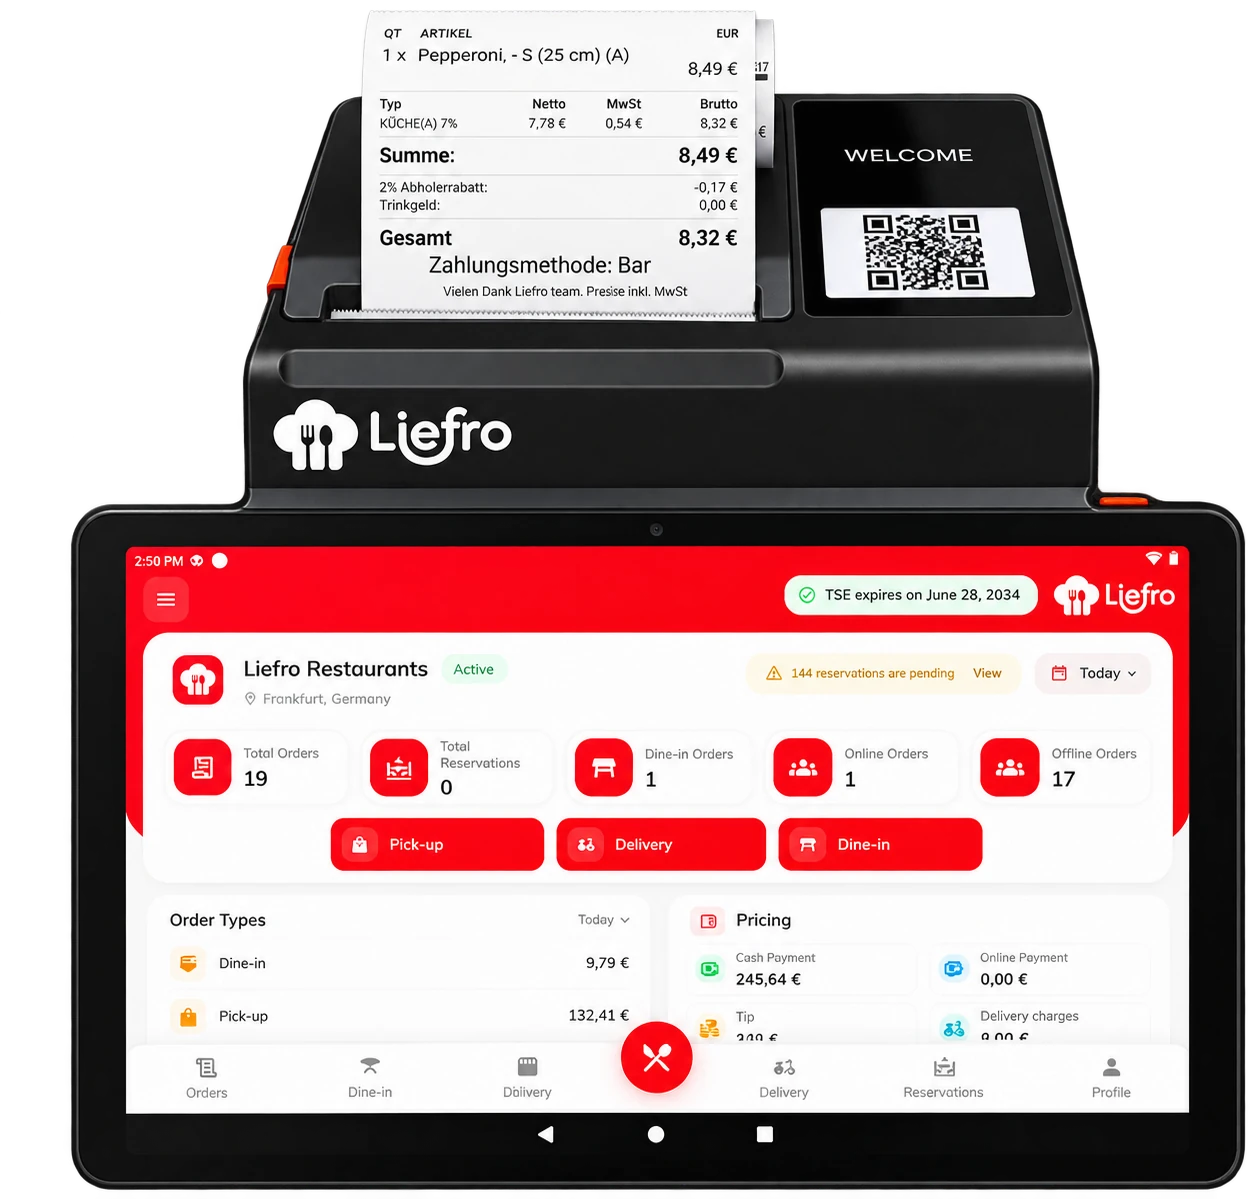
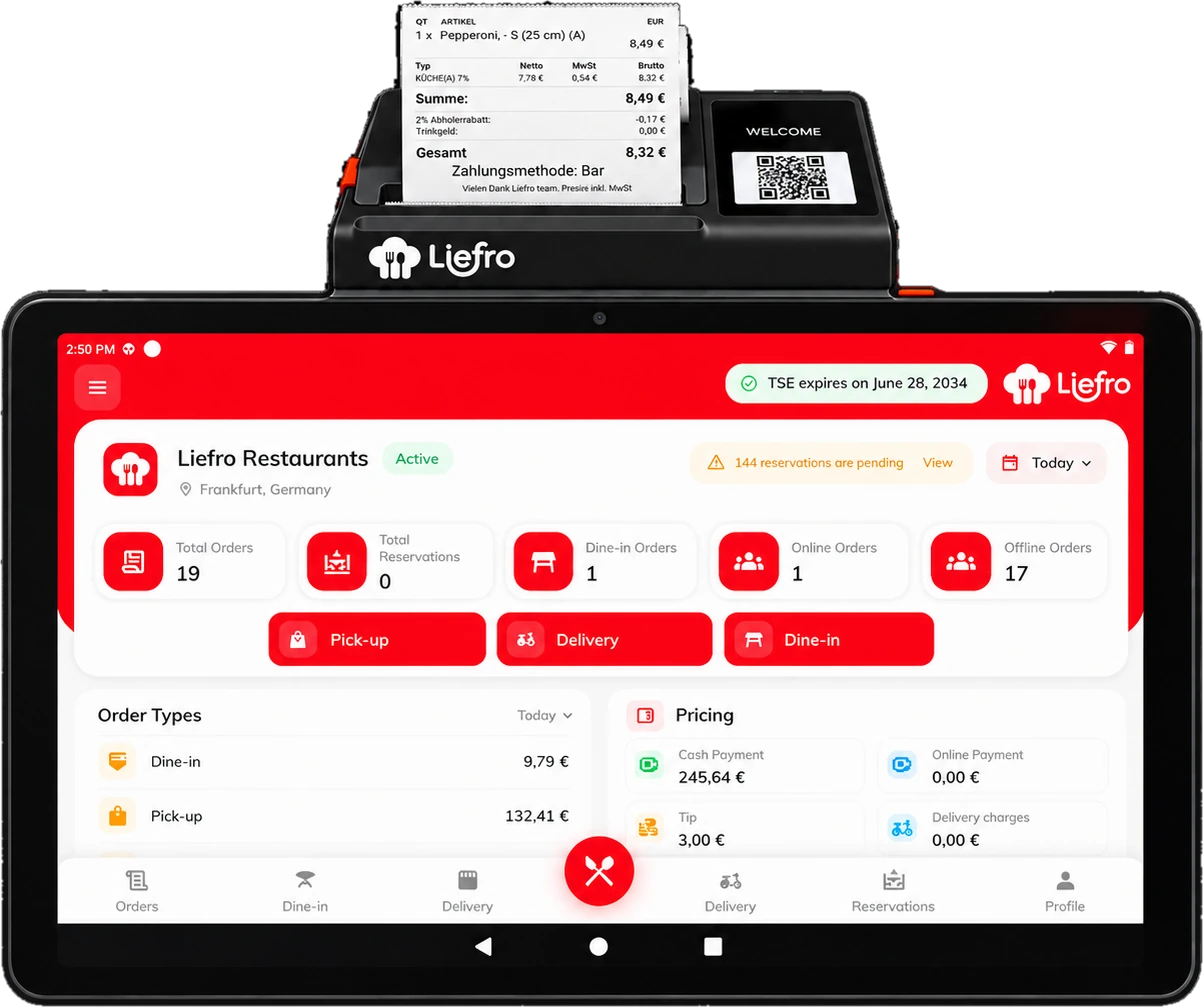
Use new POS station image and widen it in the hero
New transparent cut-out with a thinner bezel; screen-slider box and
srcset sizes updated to match, and the tablet column grows to
min(52vw, 690px).

diff --git a/frontend/src/components/HeroDevices.jsx b/frontend/src/components/HeroDevices.jsx
@@ -16,12 +16,12 @@ const screenSlides = [
   srcSet: widths.map((w) => `/hero/${n}-${w}.webp ${w}w`).join(", "),
 }));
 
-// Rendered width of the tablet screen: the tablet is min(48vw, 600px) wide on
-// desktop and the screen is 85.2% of it.
-const screenSizes = "(min-width: 1280px) 512px, (min-width: 1024px) 41vw, 85vw";
+// Rendered width of the tablet screen: the tablet is min(52vw, 690px) wide on
+// desktop and the screen is 90.2% of it.
+const screenSizes = "(min-width: 1280px) 622px, (min-width: 1024px) 47vw, 90vw";
 
 // Screen area inside device-tablet.webp, in % of the image.
-const tabletScreen = { left: "10%", top: "45.5%", width: "85.2%", height: "47.3%" };
+const tabletScreen = { left: "4.82%", top: "33.07%", width: "90.19%", height: "58.59%" };
 
 // The big POS station. Kept perfectly still: a continuously moving layer gets
 // resampled at sub-pixel offsets in Chrome, which smears the slides' fine text.
@@ -35,8 +35,8 @@ export function HeroTablet({ alt }) {
     >
       <img
         src="/hero/device-tablet.webp"
-        width={1250}
-        height={1199}
+        width={1203}
+        height={1007}
         alt={alt}
         fetchPriority="high"
         className="block w-full h-auto drop-shadow-[0_40px_45px_rgba(60,0,0,0.45)]"

diff --git a/frontend/src/pages/TaxCompliance.jsx b/frontend/src/pages/TaxCompliance.jsx
@@ -90,7 +90,7 @@ export default function TaxCompliance() {
               transition={{ duration: 1, delay: 0.2, ease }}
               className="relative"
             >
-              <img src="/hero/device-tablet.webp" alt="" width={1250} height={1199} className="w-full max-w-[560px] mx-auto h-auto drop-shadow-[0_40px_50px_rgba(60,0,0,0.45)]" />
+              <img src="/hero/device-tablet.webp" alt="" width={1203} height={1007} className="w-full max-w-[560px] mx-auto h-auto drop-shadow-[0_40px_50px_rgba(60,0,0,0.45)]" />
               <div className="absolute bottom-[12%] left-0 sm:-left-4 flex items-center gap-3 rounded-2xl bg-white text-gray-900 px-4 py-3 shadow-[0_20px_50px_rgba(0,0,0,0.25)]">
                 <span className="w-10 h-10 rounded-xl bg-green-50 text-green-600 flex items-center justify-center">
                   <ShieldCheck size={20} />

diff --git a/frontend/src/components/POSDevicesSection.jsx b/frontend/src/components/POSDevicesSection.jsx
@@ -8,7 +8,7 @@ const ease = [0.22, 1, 0.36, 1];
 
 // Device cut-outs are shared with the hero (public/hero/).
 const devices = [
-  { key: "station", image: "/hero/device-tablet.webp", width: 1250, height: 1199, imgClass: "max-w-[85%]", to: "/pos-system-development" },
+  { key: "station", image: "/hero/device-tablet.webp", width: 1203, height: 1007, imgClass: "max-w-[85%]", to: "/pos-system-development" },
   { key: "go", image: "/hero/device-handheld.webp", width: 691, height: 1536, imgClass: "max-w-[42%]", to: "/pos-system-development" },
   { key: "waiter", image: "/hero/device-phone.webp", width: 720, height: 1151, imgClass: "max-w-[45%]", to: "/mobile-app-development" },
   { key: "printer", image: "/hero/device-printer.webp", width: 1000, height: 1043, imgClass: "max-w-[70%]", to: "/printer-integration" },

diff --git a/frontend/src/components/HeroSlider.jsx b/frontend/src/components/HeroSlider.jsx
@@ -123,7 +123,7 @@ export default function HeroSlider() {
             </h1>
           </motion.div>
 
-          <div className="lg:col-start-2 lg:row-start-1 lg:row-span-2 w-full lg:w-[min(48vw,600px)] mx-auto">
+          <div className="lg:col-start-2 lg:row-start-1 lg:row-span-2 w-full lg:w-[min(52vw,690px)] mx-auto">
             <HeroTablet alt={slideText.title} />
           </div>
 
